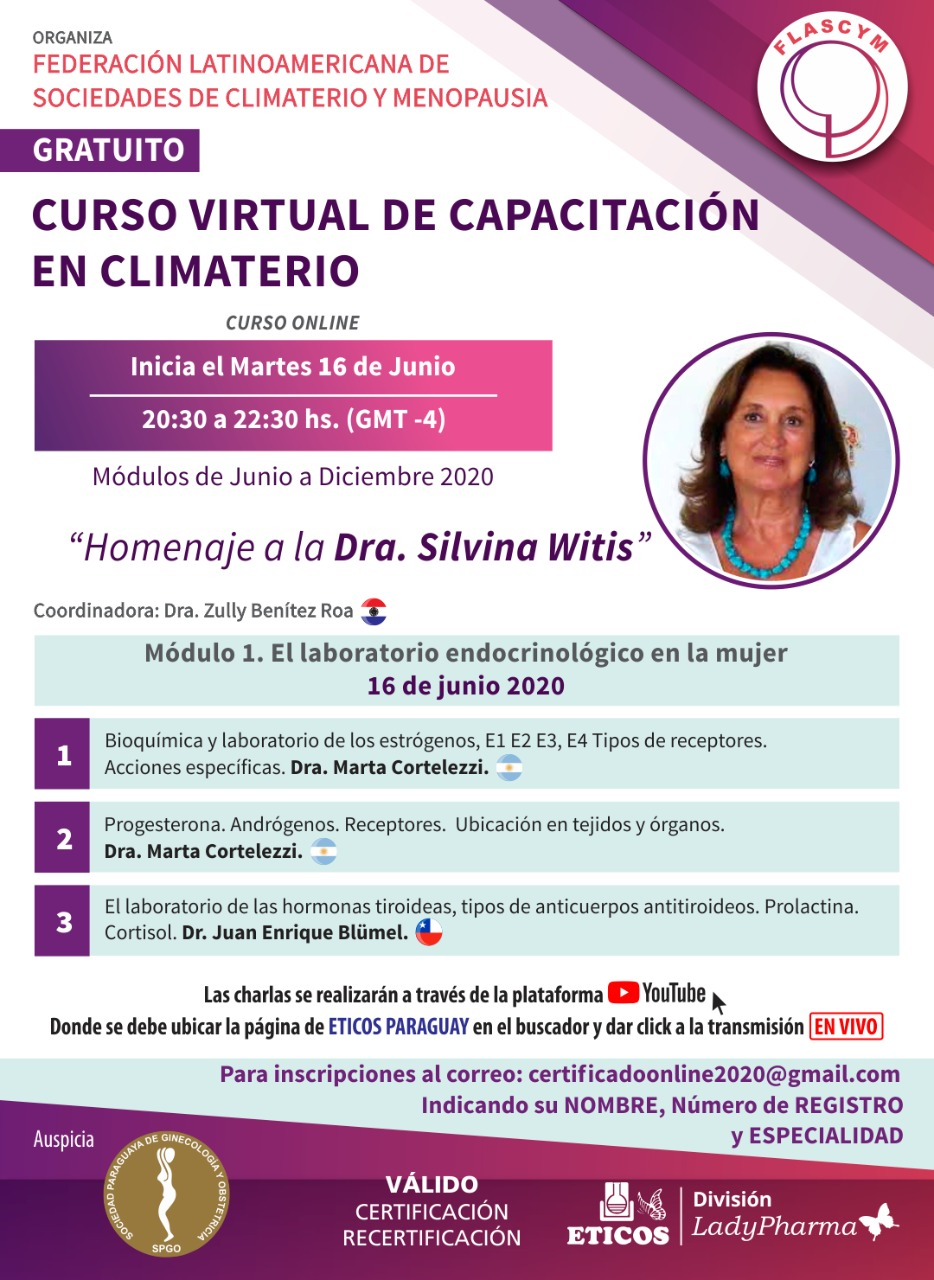
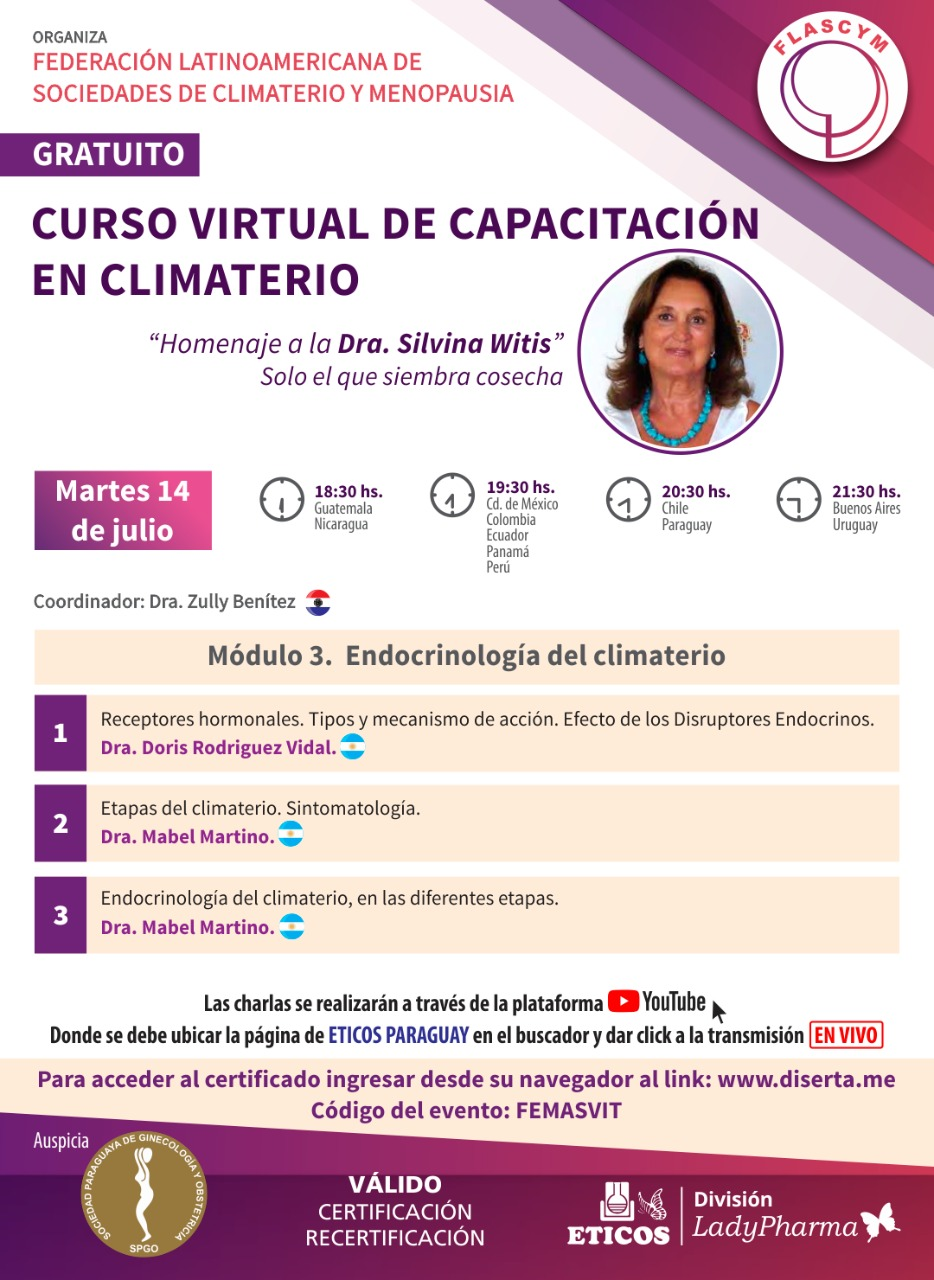
Afiche y programa curso climaterio fix

diff --git a/cursos/curso_capacitacion_climaterio.html b/cursos/curso_capacitacion_climaterio.html
@@ -239,6 +239,19 @@
                                                         src="../wp-content/uploads/afiche_capacitacion_climaterio.jpg" alt="" /></span></div>
                                                 </div>
                                             </div>  
+
+                                            <div
+                                                id="custom-row" class=" et_pb_row et_pb_row_0">
+                                                <div
+                                                    class="et_pb_column et_pb_column_4_4  et_pb_column_0 et-last-child">
+                                                    <div
+                                                        class="et_pb_button_module_wrapper et_pb_module et_pb_button_alignment_center"> 
+
+                                                        <a
+                                                        class="et_pb_button et_pb_custom_button_icon  et_pb_button_4 et_pb_module et_pb_bg_layout_light" href="../wp-content/cursos/curso_master_climaterio/Programa_Curso_Virtual_de_Climaterio_2020.07.13.jpg" target="_blank" data-icon="&#xe092;">Programa</a>
+                                                    </div>
+                                                </div>
+                                            </div>
                                             
                                         </div>
                                     </div>
